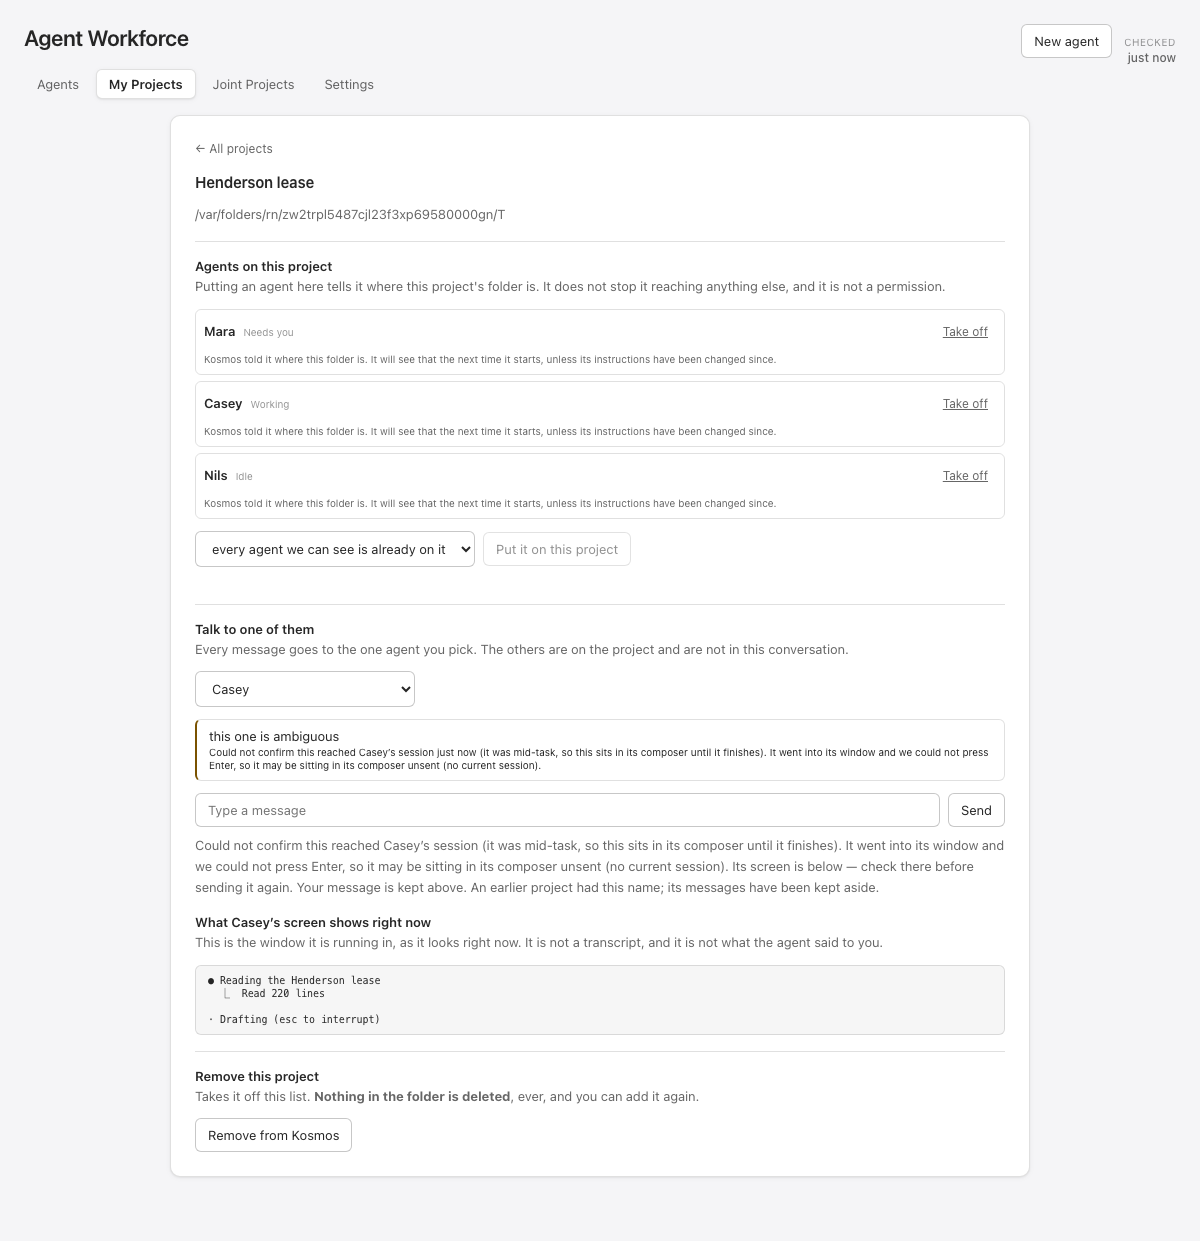
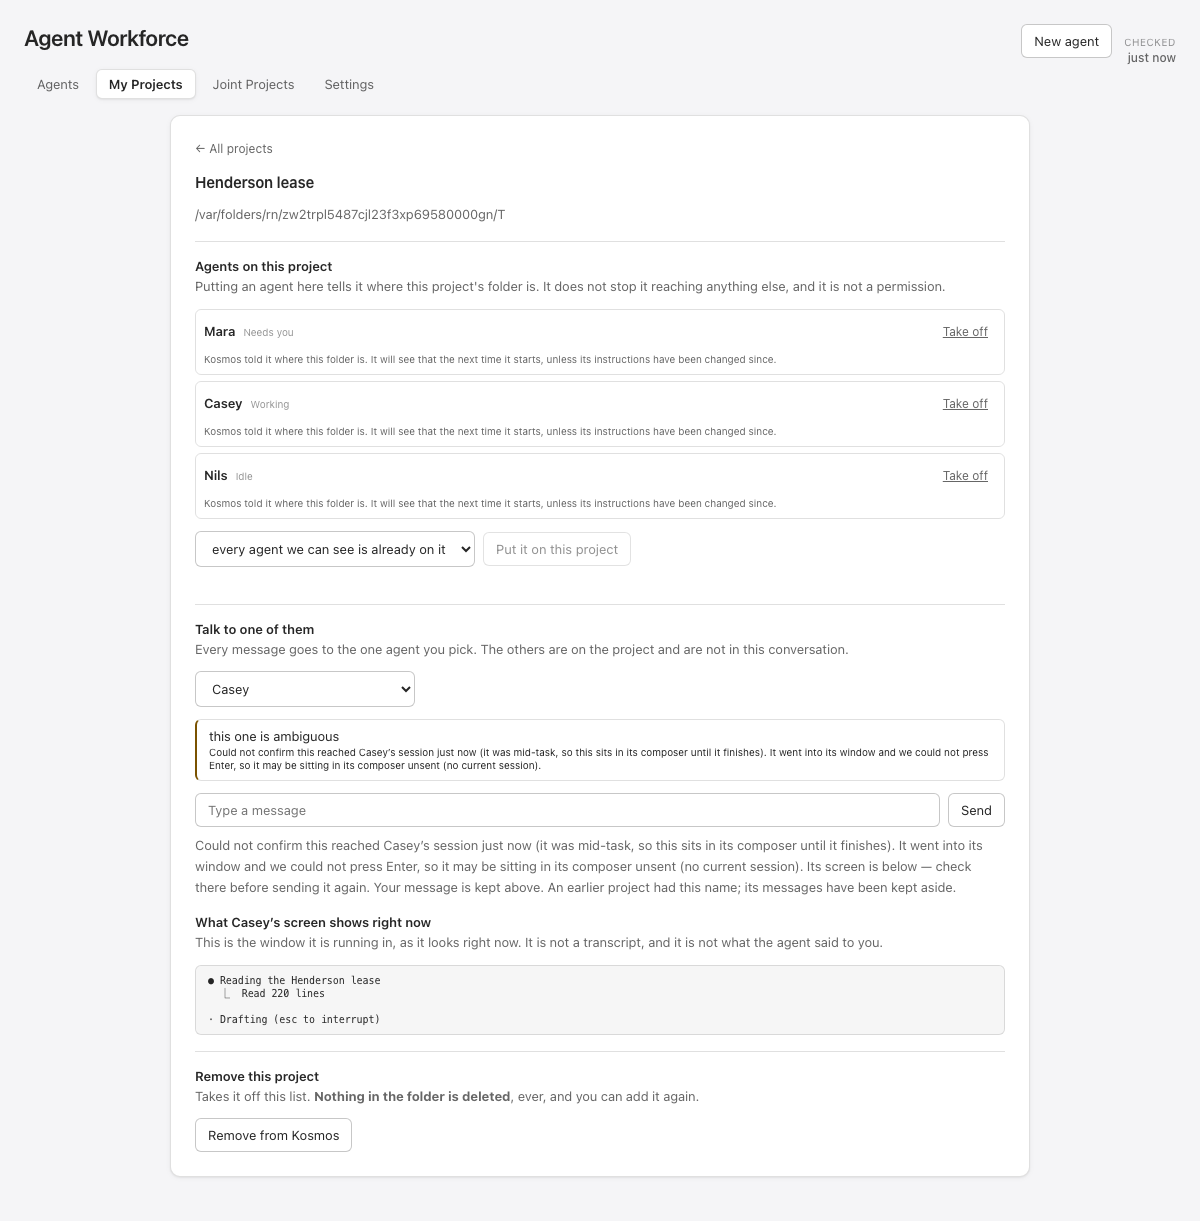
project-chat -- address challenge-loop iteration 5 findings
W1 -- the live verdict line never aged. It said "just now" forever while the
message row a few pixels above it re-rendered on every poll and moved on to
"2 minutes ago": two claims about one send, on one screen, disagreeing, and
the frozen one was the sentence the person had just read. Each verdict is now
a FUNCTION of how long ago it was rather than a string with the phrase baked
in, and the poll restates it exactly as it restates the rows. Only OUR
sentence is replaced (matched against what we last wrote), so a poll can
never overwrite an error somebody else put on that line, and the stamp is
dropped when the project or the recipient changes.

  ⚠ One wording call while there: `could_not` carries NO time phrase.
  "Could not deliver just now: ..." reads as "not at this moment", which
  suggests retrying in a second might work — a different and wrong claim. It
  needs no stamp to stay true: nothing was typed, the text is still in the
  box in front of them, and the row below carries the time. The defect was a
  FALSE time claim, not the absence of one.

W2 -- supersede-succeeds-then-write-fails dropped supersededBecause, because
only the success return carried it. So a rename on somebody's disk could
happen with no sentence anywhere. It travels on both returns now, and the
page's moved clause already renders on all three verdicts.

W3 -- that path is tested through the real code: a DIRECTORY planted at the
[…]

diff --git a/web/index.html b/web/index.html
@@ -3723,6 +3723,21 @@ let PJ_SENDING = false;     // a send is in flight; guards double-sends and the 
 // It clears only that one, so a poll cannot wipe a send's verdict — see the
 // note in `loadThread`.
 let PJ_THREAD_NOTE = null;
+/**
+ * The last send's verdict line, kept so it can AGE.
+ *
+ * ⚠ IT SAID "just now" FOREVER. The sentence was written once, at the moment
+ * of sending, with the phrase baked in — while the message row a few pixels
+ * above it re-rendered on every poll and moved on to "2 minutes ago". Two
+ * claims about one send, on one screen, disagreeing; and the one that never
+ * moved was the one the person had just read.
+ *
+ * `{ at, render }` is what makes it re-renderable: `render` takes the aged
+ * phrase and rebuilds the same sentence, so the poll can restate it exactly as
+ * the rows are restated. `shown` is the text we last wrote, so a re-render only
+ * ever replaces OUR sentence and never something a later error put there.
+ */
+let PJ_SENT_LINE = null;
 // Ordering guard, the same one `loadProjects` and `pjBrowse` take: the
 // 5-second poll and a click can be in flight together, and a stale answer must
 // not repaint a thread the person has since switched away from.
@@ -3963,6 +3978,7 @@ function openProject(id) {
   // would only catch it when that agent is not on this project — so the
   // dangerous half (it IS on both) would be silent.
   PJ_WHO = null;
+  PJ_SENT_LINE = null;
   document.getElementById('pj-thread-msg').textContent = '';
   document.getElementById('pj-say').value = '';
   pjCloseConfirm();
@@ -4294,14 +4310,28 @@ async function loadThread() {
   const line = document.getElementById('pj-thread-msg');
   if (PJ_THREAD_NOTE && line.textContent === PJ_THREAD_NOTE) line.textContent = '';
   PJ_THREAD_NOTE = null;
+  /**
+   * ⚠ THE LAST SEND'S VERDICT AGES WITH THE ROWS. Only OUR sentence is
+   * replaced — matched against what we last wrote — so a poll can never
+   * overwrite an error somebody else put on this line, and a verdict the person
+   * has navigated away from is dropped rather than resurrected.
+   */
+  if (PJ_SENT_LINE && line.textContent === PJ_SENT_LINE.shown) {
+    const aged = PJ_SENT_LINE.render(pjWhenPart(PJ_SENT_LINE.at));
+    if (aged !== PJ_SENT_LINE.shown) { line.textContent = aged; PJ_SENT_LINE.shown = aged; }
+  } else if (PJ_SENT_LINE && line.textContent !== PJ_SENT_LINE.shown) {
+    PJ_SENT_LINE = null;
+  }
   paintThread(body);
 }
 
 document.getElementById('pj-thread-who').addEventListener('change', (e) => {
   PJ_WHO = e.target.value || null;
   // Cleared, because it describes the conversation being left rather than the
-  // one being opened.
+  // one being opened — the stamp with it, or the poll would restate a verdict
+  // about a different agent's send.
   document.getElementById('pj-thread-msg').textContent = '';
+  PJ_SENT_LINE = null;
   loadThread();
 });
 
@@ -4382,9 +4412,14 @@ async function pjSend() {
      *                  keeps it — and the sentence stops making the promise.
      */
     const inThread = body.recorded === true;
+    // ⚠ Each verdict is a FUNCTION of how long ago it was, not a string with
+    // the phrase baked in — see PJ_SENT_LINE. The poll re-renders it exactly as
+    // it re-renders the rows, so the two can never disagree about one send.
+    const at = (body.delivery && body.delivery.at) || new Date().toISOString();
+    let render = null;
     if (state === 'placed') {
       box.value = '';
-      msg.textContent = 'Placed into ' + name + '’s session just now' + note + '.' + moved + kept;
+      render = (when) => 'Placed into ' + name + '’s session' + when + note + '.' + moved + kept;
     } else if (state === 'unconfirmed') {
       if (inThread) box.value = '';
       // ⚠ ONE instruction, not three. The first version stacked the engine's
@@ -4392,15 +4427,26 @@ async function pjSend() {
       // above" on top of "it may be sitting in its composer unsent" — a wall
       // that sent the person to three different places. The engine states the
       // fact; this line says the one thing to do about it.
-      msg.textContent = 'Could not confirm this reached ' + name + '’s session' + note + '. '
+      render = (when) => 'Could not confirm this reached ' + name + '’s session' + when + note + '. '
         + pjSentence((body.delivery && body.delivery.because) || 'we typed it and could not tell whether it arrived')
         + ' Its screen is below — check there before sending it again.'
         + (inThread ? ' Your message is kept above.' : ' Your message is still in the box below.')
         + moved + kept;
     } else {
-      msg.textContent = 'Could not deliver: '
+      /**
+       * ⚠ NO TIME PHRASE ON THIS ONE, deliberately. "Could not deliver just
+       * now: …" reads as "not at this moment", which is a different and wrong
+       * claim — it suggests trying again in a second might work. And this
+       * verdict needs no stamp to stay true: nothing was typed, the person's
+       * text is still in the box in front of them, and the row below carries
+       * the time. The defect being fixed here is a FALSE time claim, not the
+       * absence of one.
+       */
+      render = () => 'Could not deliver: '
         + ((body.delivery && body.delivery.because) || 'we could not put it into its session') + '.' + moved + kept;
     }
+    msg.textContent = render(pjWhenPart(at));
+    PJ_SENT_LINE = { at, render, shown: msg.textContent };
     await loadThread();
   } catch (err) {
     msg.textContent = err.message;

diff --git a/engine/chat.test.js b/engine/chat.test.js
@@ -1184,3 +1184,83 @@ test('two writers that both see a stale lock do not both get inside', () => {
     assert.ok(said.includes('stale A') && said.includes('stale B'));
   });
 });
+
+test('an earlier project’s messages being moved aside is reported EVEN when the write then fails', () => {
+  /**
+   * ⚠ A RENAME ON SOMEBODY'S DISK WITH NO SENTENCE ANYWHERE. `supersede` moves
+   * an earlier project's conversation out of the way BEFORE the new record is
+   * written — so a write that then fails left the move done and unreported,
+   * because only the success return carried word of it. The person is told the
+   * message was not recorded and never told their older conversation moved.
+   *
+   * Forced through the real path: a DIRECTORY planted at the per-pid temp name
+   * makes `writeFileSync` fail after the rename has already happened.
+   */
+  const born = '2026-01-01T00:00:00.000Z';
+  const reborn = '2026-08-01T00:00:00.000Z';
+  chat.appendMessage('asidefail', 'casey', {
+    text: 'said to the FIRST project', delivery: { state: chat.DELIVERY.PLACED },
+  }, born);
+
+  const file = chat.threadFile('asidefail', 'casey');
+  const blocker = `${file}.${process.pid}.new`;
+  fs.mkdirSync(blocker, { recursive: true });
+  try {
+    const kept = chat.appendMessage('asidefail', 'casey', {
+      text: 'said to the SECOND project', delivery: { state: chat.DELIVERY.PLACED },
+    }, reborn);
+    assert.equal(kept.recorded, false, 'the control: the write really did fail');
+    assert.match(kept.supersededBecause, /kept aside/,
+      'an earlier conversation was moved and nothing said so');
+    // ⚠ And the sentence is ours, not an errno. "EISDIR: illegal operation on
+    // a directory, open '/var/folders/…new'" is not a thing a person can act on.
+    assert.match(kept.because, /could not write this conversation down/);
+    assert.ok(!/EISDIR|\/var\/folders|\.new/.test(kept.because),
+      `an error code and an internal path reached the person: ${kept.because}`);
+  } finally {
+    fs.rmSync(blocker, { recursive: true, force: true });
+  }
+  // And nothing of the person's was lost: the earlier conversation is beside it.
+  const aside = fs.readdirSync(path.dirname(file))
+    .filter((f) => f.startsWith(path.basename(file)) && f.endsWith('.superseded'));
+  assert.equal(aside.length, 1);
+});
+
+test('a holder whose lock was stolen does not delete the successor’s lock on the way out', () => {
+  /**
+   * ⚠ THE CLEANUP PUTTING TWO WRITERS INSIDE. If one critical section ever
+   * outlives the stale bound, a second writer steals the lock — and the first
+   * one's `finally` then removes the SUCCESSOR's brand-new lock, which is the
+   * interleave the lock exists to prevent, arriving through the release path.
+   *
+   * Simulated exactly: the lock is stolen (renamed away and replaced) from
+   * INSIDE the critical section, so the original holder's `finally` runs
+   * against a lock that is no longer its own.
+   */
+  const file = chat.threadFile('stolenrelease', 'casey');
+  fs.mkdirSync(path.dirname(file), { recursive: true });
+  const lock = file + '.lock';
+
+  chat.withThreadLock(file, () => {
+    // A successor steals it: the stale path renames the old one away and makes
+    // its own. The marker inside is the successor's, not ours.
+    fs.renameSync(lock, lock + '.taken');
+    fs.mkdirSync(lock);
+    fs.writeFileSync(path.join(lock, 'owner'), 'the-successor');
+  });
+
+  assert.ok(fs.existsSync(lock), 'the original holder deleted the successor’s lock on its way out');
+  assert.equal(fs.readFileSync(path.join(lock, 'owner'), 'utf8'), 'the-successor',
+    'the successor’s lock was replaced rather than left alone');
+  fs.rmSync(lock, { recursive: true, force: true });
+  fs.rmSync(lock + '.taken', { recursive: true, force: true });
+});
+
+test('the ordinary case still releases its own lock, or the next write would block', () => {
+  // The control for the test above: without this, "we did not delete it" would
+  // also be satisfied by a release that never deletes anything.
+  const file = chat.threadFile('normalrelease', 'casey');
+  fs.mkdirSync(path.dirname(file), { recursive: true });
+  chat.withThreadLock(file, () => 'done');
+  assert.ok(!fs.existsSync(file + '.lock'), 'the lock was left behind after an ordinary release');
+});

diff --git a/engine/chat.js b/engine/chat.js
@@ -1048,10 +1048,35 @@ function withThreadLock(file, fn) {
       pauseMs(20);
     }
   }
+  /**
+   * ⚠ WE RELEASE OUR OWN LOCK, NEVER WHOEVER'S IS THERE NOW.
+   *
+   * The `finally` removed the lock PATH unconditionally, which is right until
+   * one critical section outlives `LOCK_STALE_MS`. Then: this holder is still
+   * working, a second writer measures the lock as stale and steals it, and
+   * this holder's `finally` deletes the SUCCESSOR's brand-new lock — putting
+   * two writers inside at once by way of the cleanup. Unlikely (the section is
+   * two file operations) and cheap to close, which is the whole argument for
+   * closing it rather than reasoning about how unlikely it is.
+   *
+   * A token written into the lock is what makes ownership checkable. Losing the
+   * marker (an unwritable dir) is not a reason to fail the write — it only
+   * means we cannot prove the lock is ours, so we do not remove it and let the
+   * staleness rule collect it.
+   */
+  const token = `${process.pid}.${Date.now()}.${Math.random().toString(36).slice(2)}`;
+  let marked = false;
+  try { fs.writeFileSync(path.join(lock, 'owner'), token); marked = true; } catch { marked = false; }
   try {
     return { ok: true, value: fn() };
   } finally {
-    try { fs.rmSync(lock, { recursive: true, force: true }); } catch { /* already gone */ }
+    let ours = marked;
+    if (marked) {
+      try { ours = fs.readFileSync(path.join(lock, 'owner'), 'utf8') === token; } catch { ours = false; }
+    }
+    if (ours) {
+      try { fs.rmSync(lock, { recursive: true, force: true }); } catch { /* already gone */ }
+    }
   }
 }
 
@@ -1162,8 +1187,27 @@ function appendLocked(projectId, agent, entry, bornAt) {
     const tmp = `${file}.${process.pid}.new`;
     fs.writeFileSync(tmp, JSON.stringify(record, null, 2));
     fs.renameSync(tmp, file);
-  } catch (err) {
-    return { recorded: false, because: String((err && err.message) || 'we could not write this conversation down') };
+  } catch {
+    /**
+     * ⚠ OUR SENTENCE, NOT THE ERRNO. Forwarding `err.message` put
+     * "EISDIR: illegal operation on a directory, open '/var/folders/rn/…/
+     * lease.casey.json.4821.new'" on screen — an error code and an internal
+     * temp path, to somebody who wanted to message their agent. `folderState`
+     * has answered these in plain language since the day it shipped; this is
+     * the same rule for the same reason. The detail is dropped rather than
+     * appended: there is nothing in it a person can act on.
+     *
+     * ⚠ AND THE ASIDE IS REPORTED EVEN THOUGH THE WRITE FAILED. `supersede`
+     * may already have RENAMED an earlier project's conversation out of the
+     * way — a change to somebody's disk — and only the success return carried
+     * word of it, so that move could happen with no sentence anywhere. It
+     * travels on both returns now.
+     */
+    return {
+      recorded: false,
+      because: 'we could not write this conversation down on this computer',
+      supersededBecause,
+    };
   }
   return { recorded: true, because: null, messages: record.messages, supersededBecause };
 }
@@ -1194,10 +1238,12 @@ function supersede(projectId, agent) {
   try {
     fs.renameSync(file, aside);
     return { ok: true, aside };
-  } catch (err) {
+  } catch {
+    // Plain language, same rule as the write failure above: an errno and an
+    // internal path are not things a person can act on.
     return {
       ok: false,
-      because: `we could not move an earlier project’s messages aside (${(err && err.message) || 'we do not know why'}), so we did not add to them`,
+      because: 'we could not move an earlier project’s messages aside, so we did not add to them',
     };
   }
 }
@@ -1242,7 +1288,7 @@ module.exports = {
   DELIVERY, MAX_TEXT, MAX_MESSAGES, VIEWPORT_LINES,
   cleanMessage, messageProblem, addressable, paneTarget, wireText,
   deliver, viewport, questionIn, waitingNote, spawnFailure, verifyAtSend, VERIFY_FORMAT,
-  threadFile, readThread, appendMessage, supersede,
+  threadFile, readThread, appendMessage, supersede, withThreadLock,
   defaultAgentFor, looksLikeManager,
   setRunner, setDryRun, resetForTests,
 };

diff --git a/docs/browser-checks/render-thread.js b/docs/browser-checks/render-thread.js
@@ -472,6 +472,25 @@ async function main() {
     check(await page.locator('#pj-say').inputValue() === '',
       'the box is cleared, so re-sending text that may already be in the composer takes a retype');
 
+    /* ── 5b2. the verdict line ages with the rows ───────────────────────── */
+    /**
+     * ⚠ IT SAID "just now" FOREVER while the row above it moved on to "2
+     * minutes ago" — two claims about one send, on one screen, disagreeing, and
+     * the frozen one was the sentence the person had just read. Driven by
+     * back-dating the stamp the page holds and letting the real poll re-render.
+     */
+    const aged = await page.evaluate(async () => {
+      const line = document.getElementById('pj-thread-msg');
+      const before = line.textContent;
+      // Ten minutes ago, which pjWhen renders as a wall-clock time.
+      PJ_SENT_LINE.at = new Date(Date.now() - 600000).toISOString();
+      await loadThread();
+      return { before, after: line.textContent };
+    });
+    check(/just now/.test(aged.before), 'the control: the line said "just now" when it was sent');
+    check(!/just now/.test(aged.after),
+      `the verdict line ages rather than saying "just now" forever: "${aged.after.slice(0, 90)}"`);
+
     /* ── 5c. the recipient cannot change under the person ───────────────── */
     /**
      * ⚠ THE FLIP THIS PREVENTS, and the mechanism is ordinary rather than
